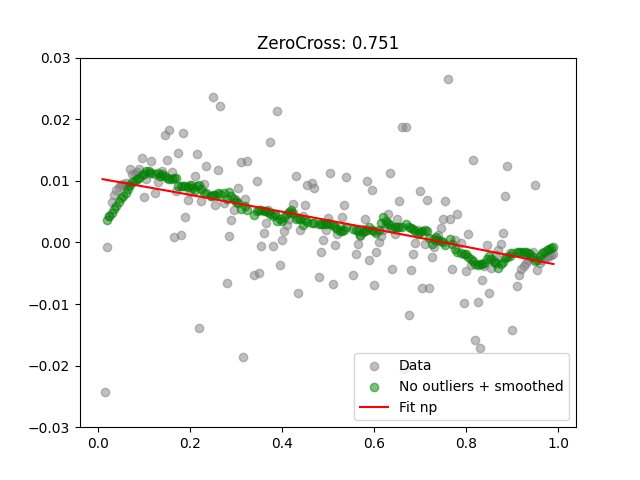
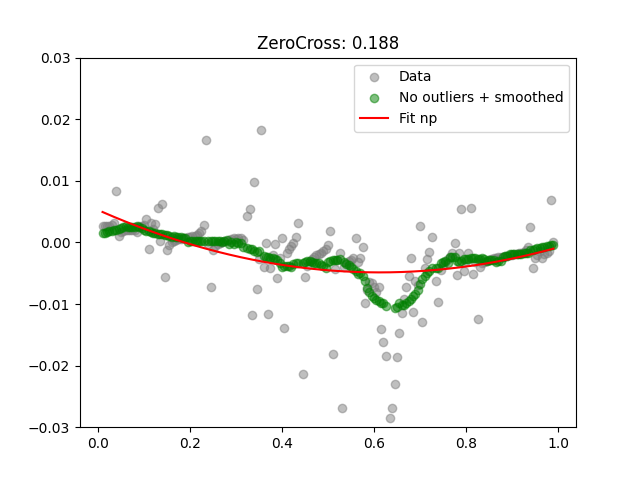
Algorithm working on 200 samples window

diff --git a/RELOPEC_algorithm.py b/RELOPEC_algorithm.py
@@ -125,7 +125,7 @@ def tests_matlab_python():
     os.system("pause")
 
 # Dataset
-MatlabSimDataSet = scipy.io.loadmat('data2.mat')
+MatlabSimDataSet = scipy.io.loadmat('data.mat')
 MatlabSimDataSetIndex = 0
 
 def getData():
@@ -175,21 +175,21 @@ if __name__=="__main__":
     if USE_CACHED_DATA == False:
         mp.freeze_support()
 
-        if USE_IEC61850_DATA == False:
+        # if USE_IEC61850_DATA == False:
 
-            # Load Simulation Data
-            print("Load data")
-            data = scipy.io.loadmat('data2.mat')
+        #     # Load Simulation Data
+        #     print("Load data")
+        #     data = scipy.io.loadmat('data2.mat')
 
-            # Put data in variables
-            Iabc = data['Iabc']
-            Vabc = data['Vabc']
-            tabc = data['t']
+        #     # Put data in variables
+        #     Iabc = data['Iabc']
+        #     Vabc = data['Vabc']
+        #     tabc = data['t']
 
         if USE_IEC61850_DATA == True or USE_SIMULATED_DATA == True:
 
             # Get the first set of data
-            t, Vabc, Iabc = getData()
+            tabc, Vabc, Iabc = getData()
 
             # Fill array for first time
             sample_cnt = 0
@@ -237,46 +237,61 @@ if __name__=="__main__":
             print("Filter fundamental")
             I_trans,V_trans,tn=myFunctionDataProcess.RealTimeFilterFundamental(Iabc,Vabc,tabc,nargout=3)
 
+            for n in np.arange(0,len(k)-1,1):
+                vF,i2,X=myFunctionCalcNetwork.NetworkParamNoCap(I_trans,V_trans,k[n],L_line,R_line,C_line,Ts,tn,Lg,Rg)
 
+                LfFict,RfFict,ZfFict=myFunctionCalcFaultLocation.Fault(vF,i2,X,Ts,tn,estFaultType,estFaultStableTime)
+
+                LfFictArray[n]=LfFict
+
+                print("n:")
+                print(n)
+
+            # Find zero crossing and hence the distance to the fault
+            print("Find zero cross")
+            zeroCross1=myFunctionCalcFaultLocation.findZeroCross(LfFictArray,k)
+            print("FaultLocData:", end = ' ')
+            faultLocData = 0.8
+            print(faultLocData) # Dit zou 0.3 moeten zijn voor "data.mat" en 0.8 voor "data2.mat"
 
         #########################################################
         # PART I: Needs to run at 2 kHz continuously
         #########################################################
         # Fault identification and classification
-        print("Detect fault")
-        start = time.time()
-        estFaultType,estFaultIncepTime,estFaultStableTime=myFunctionFaultSelection.FaultIndentification(Iabc,Vabc,t,f,Ts,Zbase)
-        end = time.time()
-        print("Time to detect fault:", end = ' ')
-        print(end-start)
-        #########################################################
+    #     print("Detect fault")
+    #     start = time.time()
+    #     estFaultType,estFaultIncepTime,estFaultStableTime=myFunctionFaultSelection.FaultIndentification(Iabc,Vabc,t,f,Ts,Zbase)
+    #     end = time.time()
+    #     print("Time to detect fault:", end = ' ')
+    #     print(end-start)
+    #     #########################################################
 
-        #########################################################
-        # PART II: Calculate fault location: only needs to run once to fault has been identified by part I
-        #########################################################
-        # Filter out fundamental frequency
-        print("Filter fundamental")
-        I_trans,V_trans,tn=myFunctionDataProcess.FilterFundamental(f,Ts,Iabc,Vabc,t,nargout=3)
-        # Small variations on I_trans and V_trans, probably due to different way of calculation between Matlab and Python (some rounding maybe?)
-        # These variations get bigger since future calculations use these values
+    #     #########################################################
+    #     # PART II: Calculate fault location: only needs to run once to fault has been identified by part I
+    #     #########################################################
+    #     # Filter out fundamental frequency
+    #     print("Filter fundamental")
+    #     I_trans,V_trans,tn=myFunctionDataProcess.FilterFundamental(f,Ts,Iabc,Vabc,t,nargout=3)
+    #     # Small variations on I_trans and V_trans, probably due to different way of calculation between Matlab and Python (some rounding maybe?)
+    #     # These variations get bigger since future calculations use these values
         
-        # Calculate fictitious fault inductance for every point on the line (k)
-        # Using multiprocessing to speed up the calculation
-        print("Start fault detection")
-        pool = mp.Pool(processes=mp.cpu_count(), initializer=findFaultInit, initargs=(I_trans, V_trans, k, tn, estFaultType, estFaultStableTime))
-        LfFictArray = pool.map(findFault, np.arange(0,len(k)))
+    #     # Calculate fictitious fault inductance for every point on the line (k)
+    #     # Using multiprocessing to speed up the calculation
+    #     print("Start fault detection")
+    #     pool = mp.Pool(processes=mp.cpu_count(), initializer=findFaultInit, initargs=(I_trans, V_trans, k, tn, estFaultType, estFaultStableTime))
+    #     LfFictArray = pool.map(findFault, np.arange(0,len(k)))
         
-        # (Temp) Save data for debugging purposes
-        data = [k, LfFictArray]
-        write_data("tempData", data)
+    #     # (Temp) Save data for debugging purposes
+    #     data = [k, LfFictArray]
+    #     write_data("tempData", data)
 
-    # (Temp) Read data for debugging purposes
-    [k, LfFictArray] = read_data("tempData")
+    # # (Temp) Read data for debugging purposes
+    # [k, LfFictArray] = read_data("tempData")
 
-    # Find zero crossing and hence the distance to the fault
-    print("Find zero cross")
-    zeroCross1=myFunctionCalcFaultLocation.findZeroCross(LfFictArray,k)
-    print("FaultLocData:", end = ' ')
-    faultLocData = 0.8
-    print(faultLocData) # Dit zou 0.3 moeten zijn voor "data.mat" en 0.8 voor "data2.mat"
-    #########################################################
+    # # Find zero crossing and hence the distance to the fault
+    # print("Find zero cross")
+    # zeroCross1=myFunctionCalcFaultLocation.findZeroCross(LfFictArray,k)
+    # print("FaultLocData:", end = ' ')
+    # faultLocData = 0.8
+    # print(faultLocData) # Dit zou 0.3 moeten zijn voor "data.mat" en 0.8 voor "data2.mat"
+    # #########################################################

diff --git a/myFunctionCalcFaultLocation.py b/myFunctionCalcFaultLocation.py
@@ -78,7 +78,7 @@ def smooth(y, box_pts):
     return y_smooth 
 
 def removeOutliers(x, y):
-    y = np.array(y)
+    y = np.array(y[:,0])
     x = np.array(x)
     mean = np.mean(y)
     standard_deviation = np.std(y)
